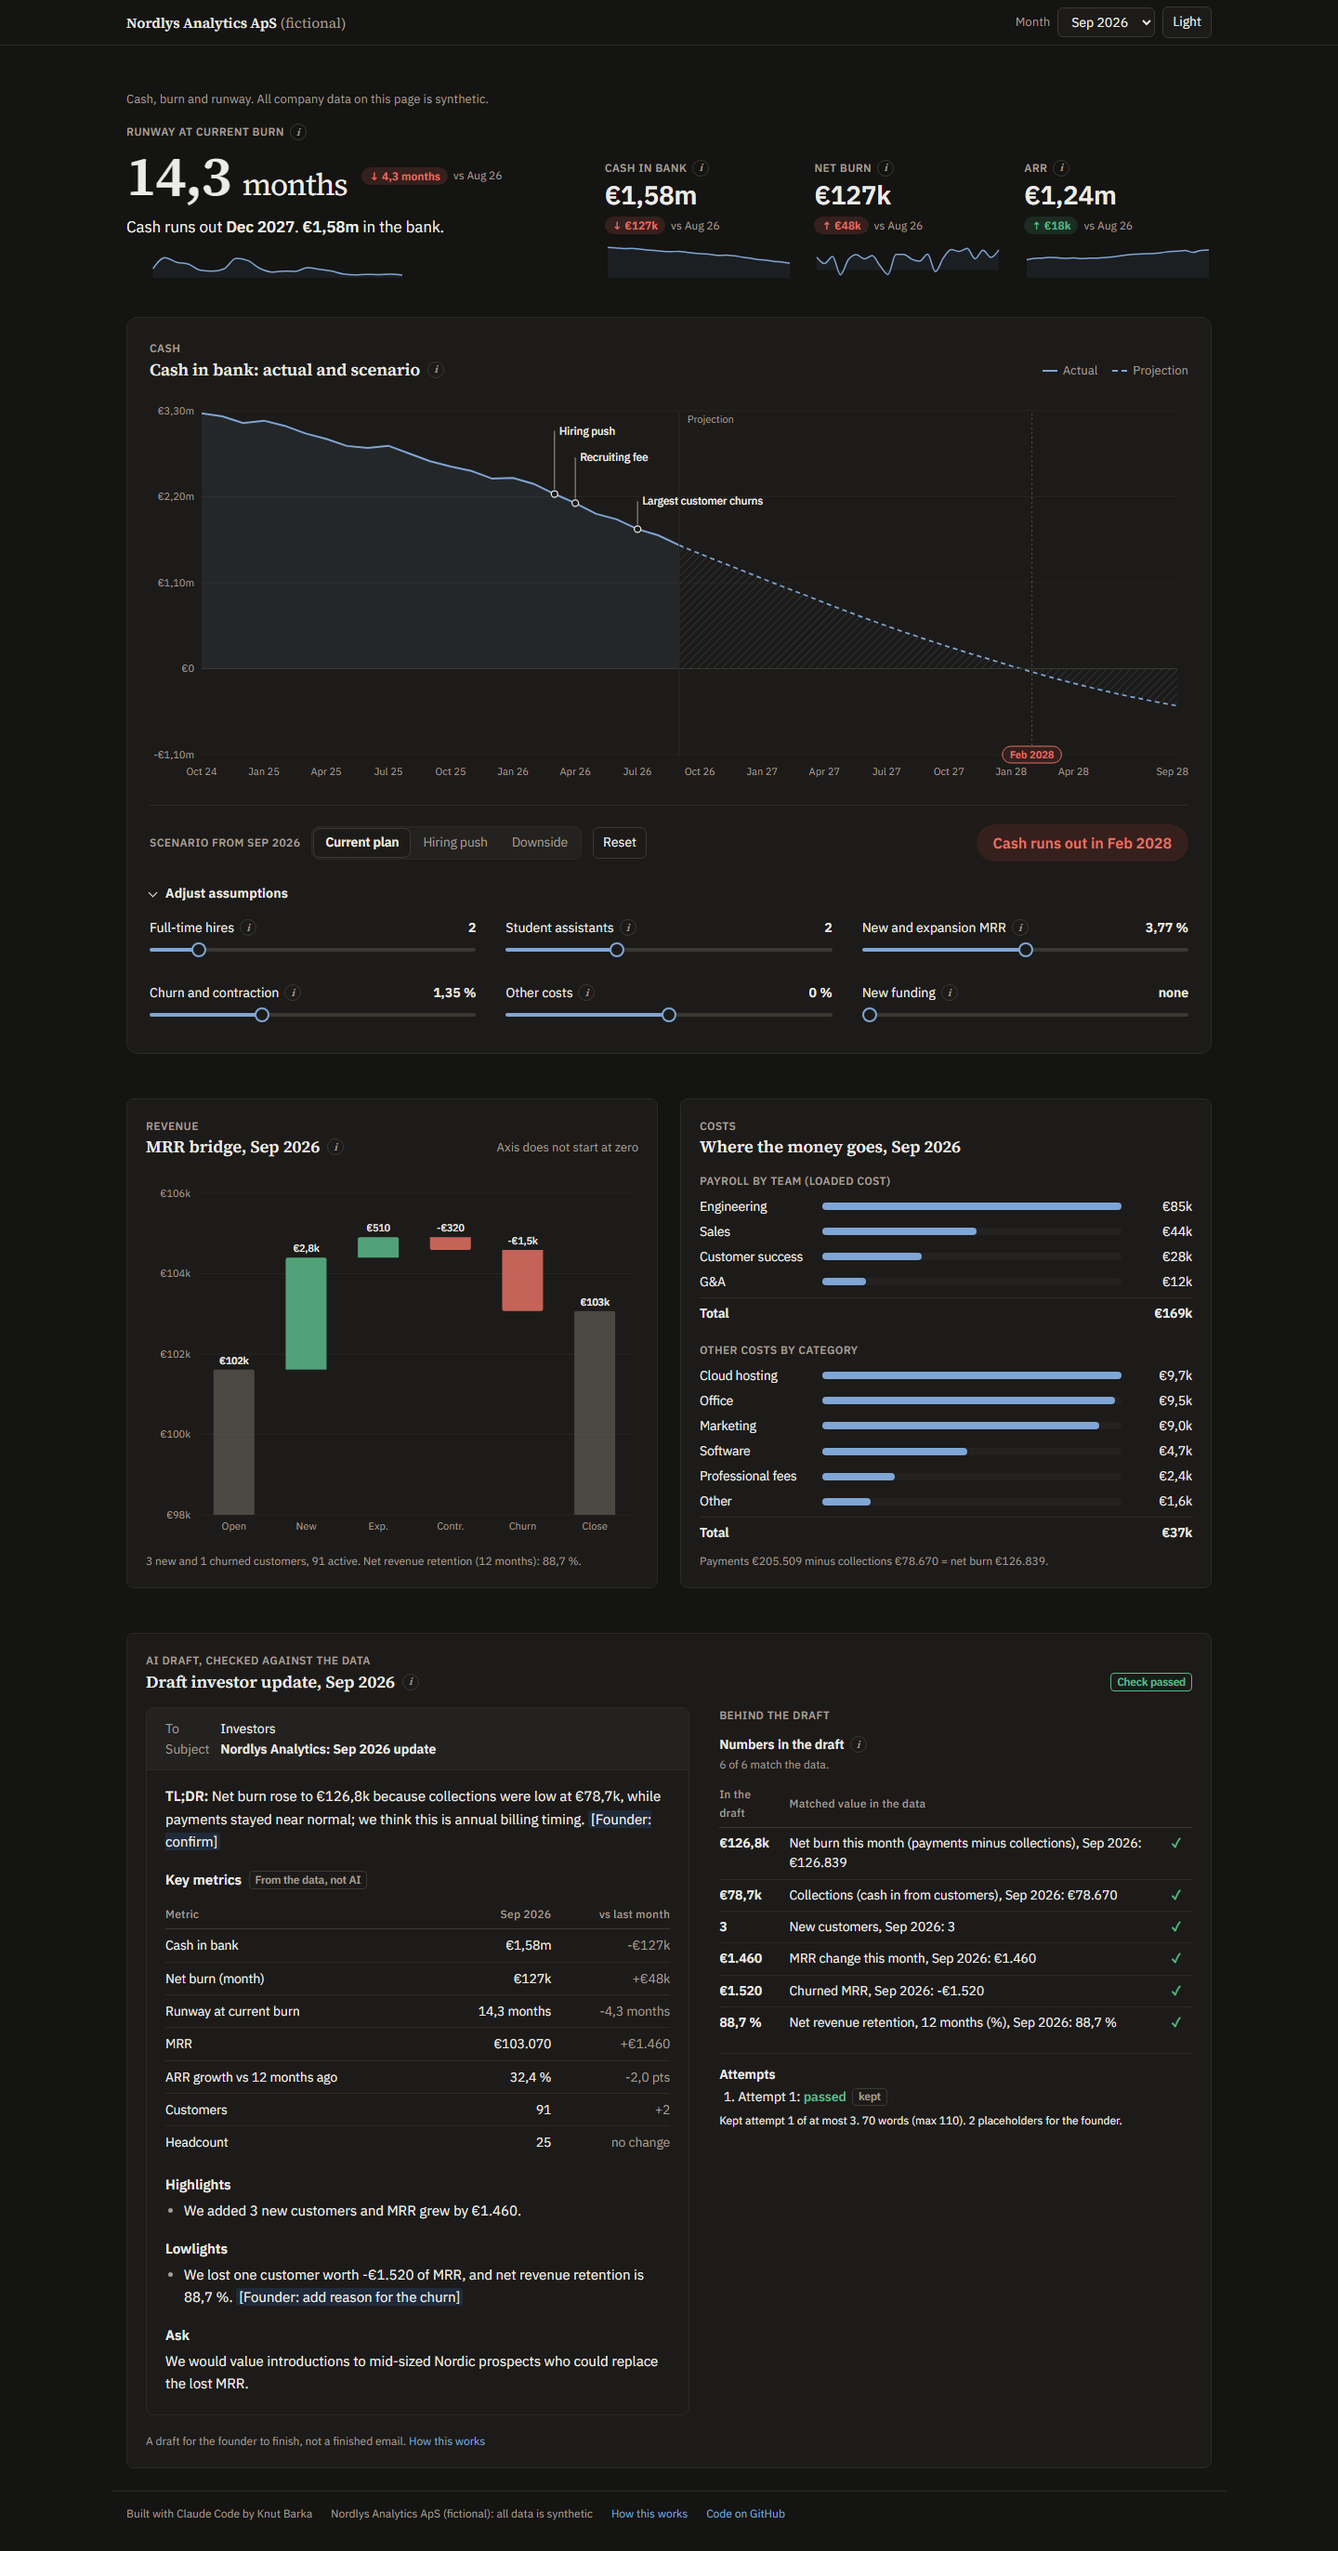
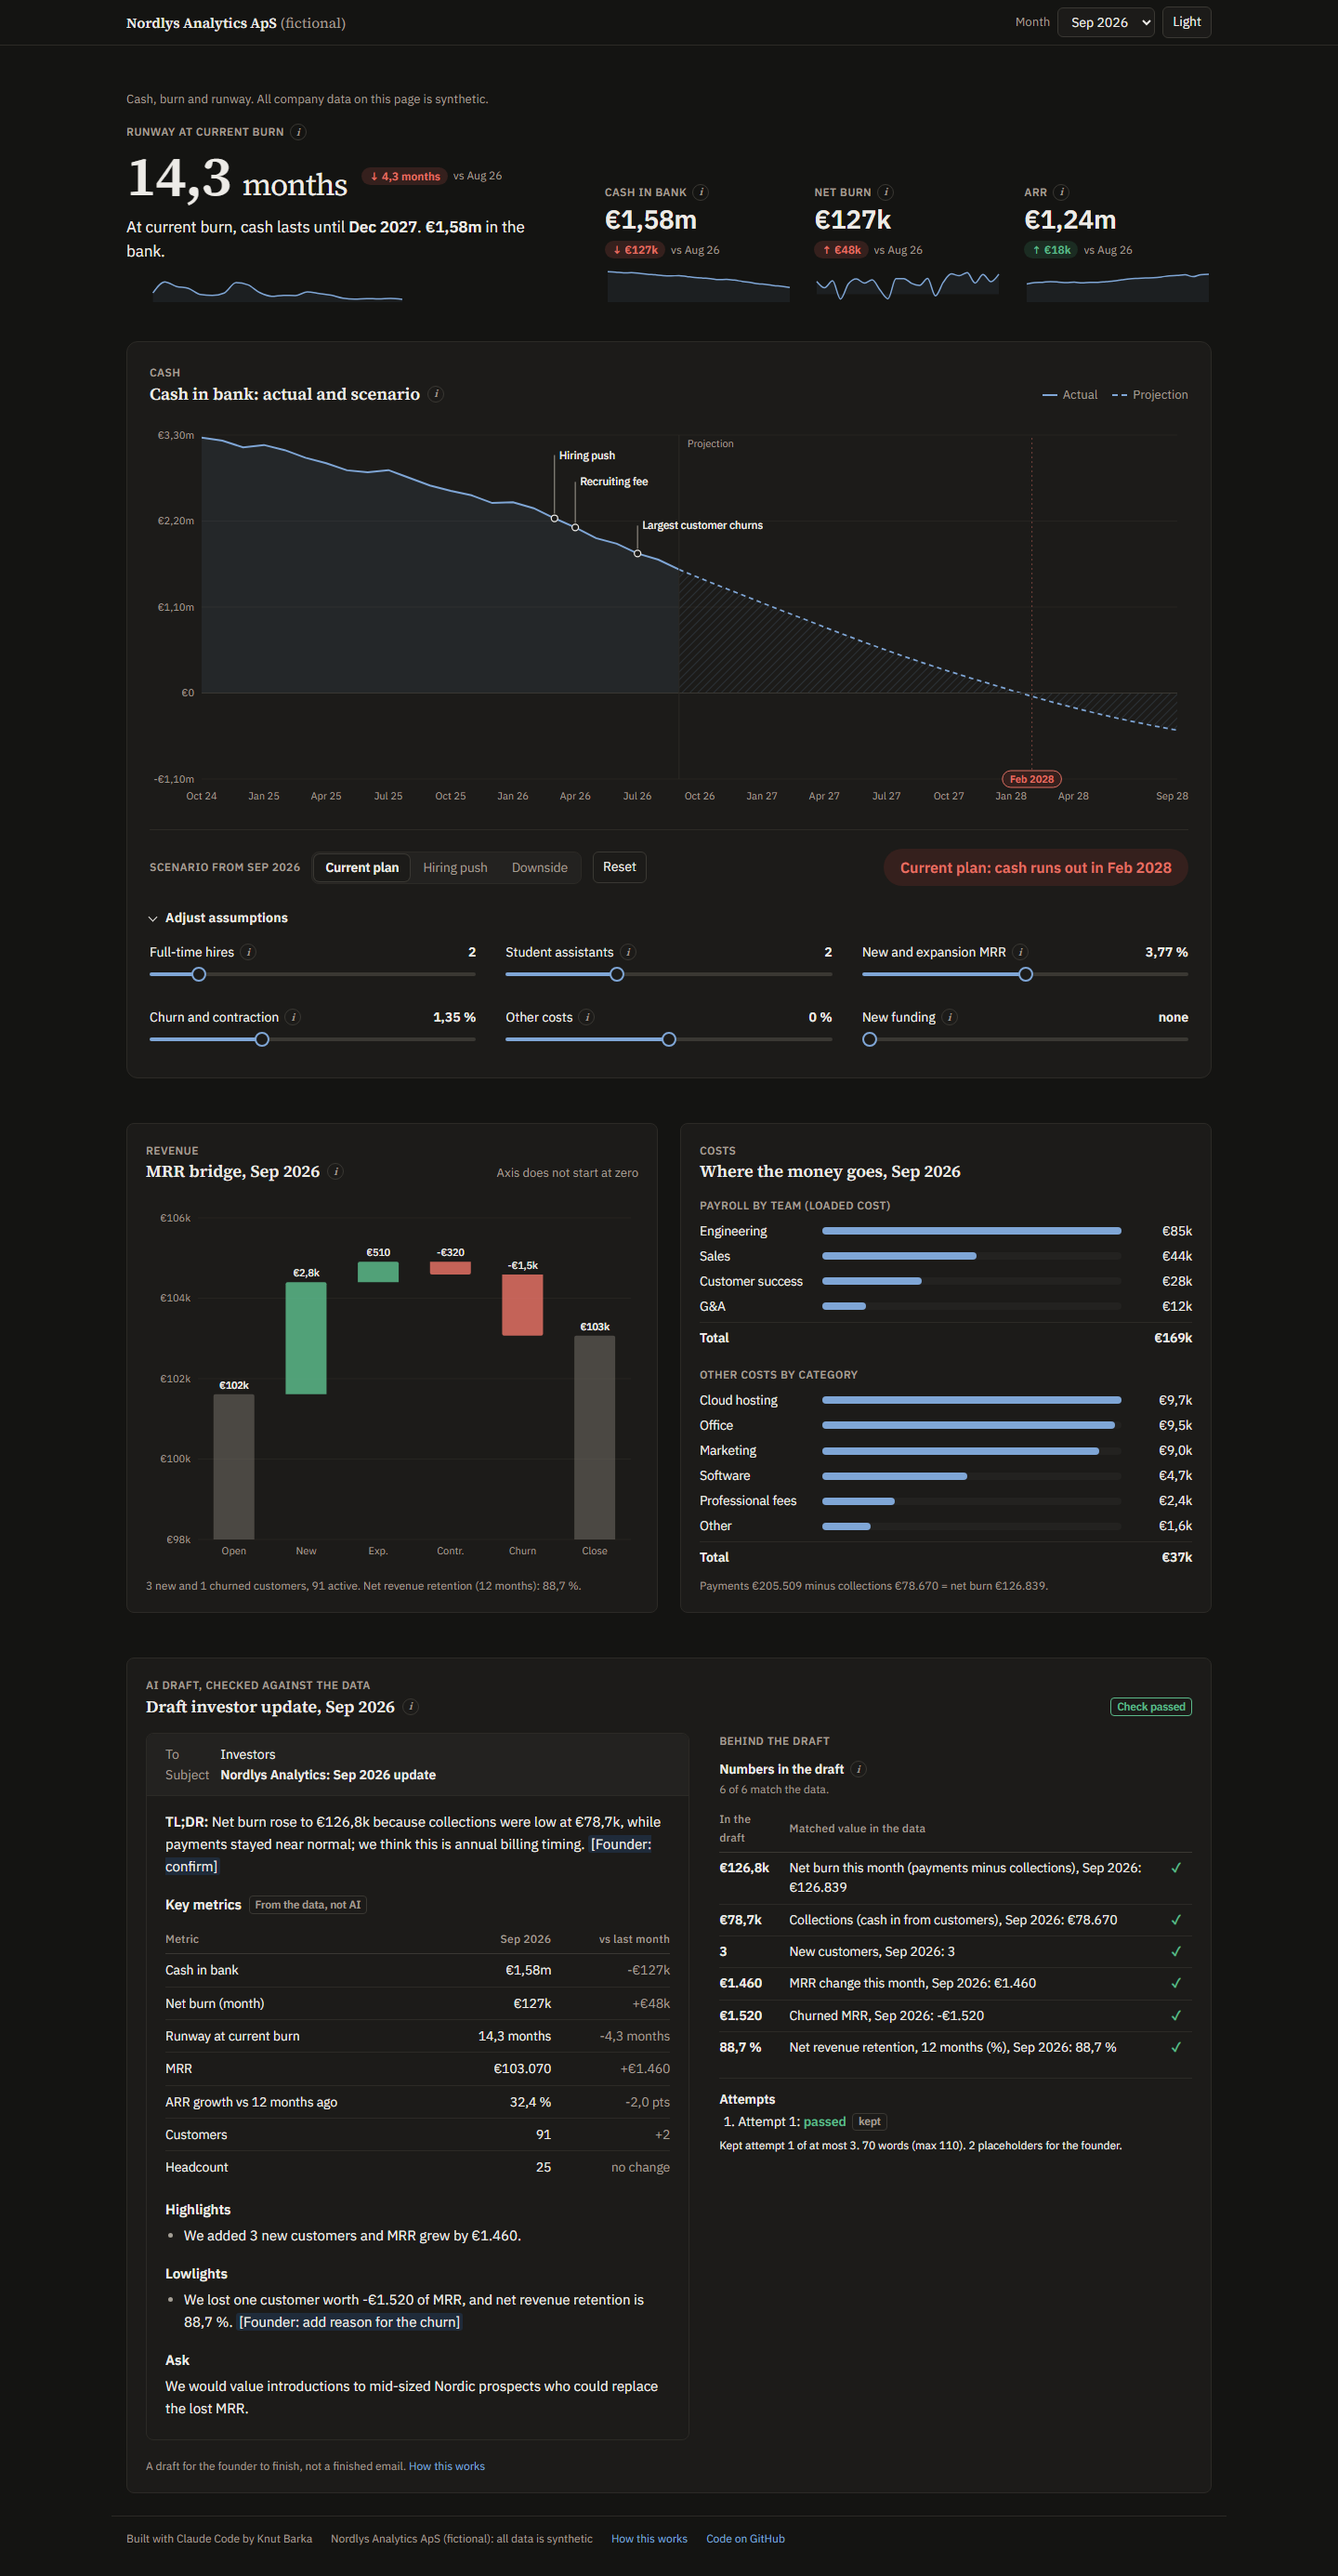
Fix after redesign v2: hero says 'at current burn, cash lasts until', result pill names the preset or Custom, one sentence on the two dates (decisions 138-140)

diff --git a/web/components/Dashboard.tsx b/web/components/Dashboard.tsx
@@ -50,13 +50,16 @@ function Slider({ id, label, value, info, min, max, step, current, onChange, chi
   );
 }
 
-// Result of the scenario. The euro amount counts to its new value (200 ms) when a slider moves.
-function ResultPill({ zero, lowest, isLast }: { zero: string | null; lowest: { month: string; cash: number }; isLast: boolean }) {
+// Result of the scenario, always named after the preset ("Custom" once a slider has moved), so it is not
+// mistaken for the hero's date at current burn. The euro amount counts to its new value (200 ms) when a slider moves.
+function ResultPill({ name, zero, lowest, isLast }: {
+  name: string; zero: string | null; lowest: { month: string; cash: number }; isLast: boolean;
+}) {
   const cash = useTween(lowest.cash);
   return (
     <p className={`projection-line result-pill ${zero ? "risk" : ""}`} aria-live="polite">
-      {zero ? <>Cash runs out in {monthLabel(zero)}</>
-        : <>Cash bottoms out at {eurShort(cash)} in {monthLabel(lowest.month)}{isLast ? ", the last projected month" : ""}</>}
+      {name}:&nbsp;{zero ? <>cash runs out in {monthLabel(zero)}</>
+        : <>cash bottoms out at {eurShort(cash)} in {monthLabel(lowest.month)}{isLast ? ", the last projected month" : ""}</>}
     </p>
   );
 }
@@ -107,8 +110,10 @@ export default function Dashboard() {
                 {m.runway_months !== null && m.avg_net_burn_3m !== null && m.zero_cash_month ? (
                   <>
                     <p>Cash at the end of {monthLabel(m.month)} divided by the 3-month average net burn of{" "}
-                      {eurShort(m.avg_net_burn_3m)}. At that pace cash runs out in {monthLabel(m.zero_cash_month)}, so new
+                      {eurShort(m.avg_net_burn_3m)}. At current burn, cash lasts until {monthLabel(m.zero_cash_month)}, so new
                       funding is needed before then.</p>
+                    <p>This date uses the last three months&apos; burn with no changes. The scenario under the chart
+                      uses the preset&apos;s hires, salary rises, growth and churn, so its date can differ.</p>
                     <p>Shown in red below 12 months.</p>
                   </>
                 ) : <p>Runway needs 3 months of history, so it starts in Dec 2024.</p>}
@@ -121,7 +126,7 @@ export default function Dashboard() {
               {runwayChange && <DeltaPill change={runwayChange} />}
             </div>
             <p className="story mt-3 text-[1.05rem]" aria-live="polite">
-              {m.zero_cash_month ? <>Cash runs out <strong>{monthLabel(m.zero_cash_month)}</strong>. </> : null}
+              {m.zero_cash_month ? <>At current burn, cash lasts until <strong>{monthLabel(m.zero_cash_month)}</strong>. </> : null}
               <strong>{eurShort(m.closing_cash)}</strong> in the bank.
             </p>
             <div className="mt-3 max-w-[300px]">
@@ -177,7 +182,7 @@ export default function Dashboard() {
                                   onChange={(p) => setS(presetSettings(base, p as (typeof PRESETS)[number]))} />
                 <button type="button" className="btn" onClick={() => setS(presetSettings(base, "Current plan"))}>Reset</button>
               </div>
-              <ResultPill zero={zero} lowest={lowest} isLast={lowest.month === lastProjected.month} />
+              <ResultPill name={active ?? "Custom"} zero={zero} lowest={lowest} isLast={lowest.month === lastProjected.month} />
             </div>
 
             <details className="assumptions mt-5" open={open} onToggle={(e) => setOpen(e.currentTarget.open)}>

diff --git a/web/styles/kit.css b/web/styles/kit.css
@@ -101,6 +101,8 @@ mark.ph { background: var(--accent-soft); color: var(--text); border-radius: 3px
 .result-pill { display: inline-flex; align-items: center; border-radius: 999px; padding: 8px 18px; font-size: 1rem; font-weight: 600;
   background: var(--accent-soft); color: var(--text); transition: background-color 200ms ease, color 200ms ease; }
 .result-pill.risk { background: var(--negative-soft); color: var(--negative); }
+/* On a phone the named result can wrap to two lines; a full pill shape looks odd then. */
+@media (max-width: 640px) { .result-pill { border-radius: 14px; font-size: 0.95rem; } }
 
 /* "Adjust assumptions": a native <details>, with a chevron that turns when open. */
 details.assumptions > summary { list-style: none; cursor: pointer; display: inline-flex; align-items: center; gap: 8px; font-weight: 600; font-size: 0.9rem; border-radius: 6px; }

diff --git a/docs/decisions.md b/docs/decisions.md
@@ -178,3 +178,9 @@ Every choice made during the unattended first build, as a list: what, why, and t
 135. **"Behind the draft" is sticky on desktop** (from 1024 px, 64 px from the top so it clears the sticky header), so it stays in view while the email is read.
 136. **New checks in `scripts/screenshots.mjs`:** the (i) popover opens with a real Enter key press and closes with Esc with focus back on the button; the focus ring colour equals `--accent`; every (i) button has a name; at 375 px "Adjust assumptions" starts closed and an open popover stays inside the screen. It also prints the first 14 stops of the tab order (header, hero stats, chart, presets, Reset, Adjust assumptions, sliders). The comparison mode now writes to `docs/screenshots/redesign-v2/` and adds the scenario card with Hiring push selected.
 137. **Screenshots and link preview for v2.** Before/after shots for desktop light, desktop dark, 375 px light, the scenario card with Hiring push selected and the Sep 2026 update card are in `docs/screenshots/redesign-v2/` (`*-before.png` from main before v2, `*-after.png`, `*-compare.png` side by side, made once with Pillow). The link preview `web/app/opengraph-image.png` was recropped from the new desktop light screenshot: the top 1.440 x 756 px scaled to 1.200 x 630 (decision 121 left it on the old design). The alt text still fits and was not changed.
+
+## Fix after redesign v2 (../prompts/p2-fix-v2.md)
+
+138. **Two end dates no longer look like a contradiction.** The hero reads "At current burn, cash lasts until Dec 2027. €1,58m in the bank." and the runway (i) uses the same wording, plus one sentence: the hero date uses the last three months' burn with no changes, while the scenario under the chart uses the preset's hires, salary rises, growth and churn, so its date can differ. The result pill always names its source: the active preset, or "Custom" once a slider has moved ("Current plan: cash runs out in Feb 2028"). It keeps "runs out in", so `live_check.mjs` and `screenshots.mjs` needed no text change. The README already says "at current burn" and "with the default preset (Current plan)", so it was not changed. Alternative: show only one date, rejected because both answer different questions.
+139. **On a phone the result pill can wrap to two lines**, so below 640 px it gets a 14 px radius instead of a full pill shape and a slightly smaller font (0,95 rem).
+140. **`node scripts/screenshots.mjs after-fix`** takes only desktop light and 375 px light into `docs/screenshots/redesign-v2/` (`*-after-fix.png`). Checks after the fix: reconcile 8/8, `check_scenario.py` and `npm test` (5/5) pass, `check_updates.py` 12/12 with 94/94 numbers, every check in `screenshots.mjs` passes, `npm run build` works in `web/`, and nothing under `data/` changed.
